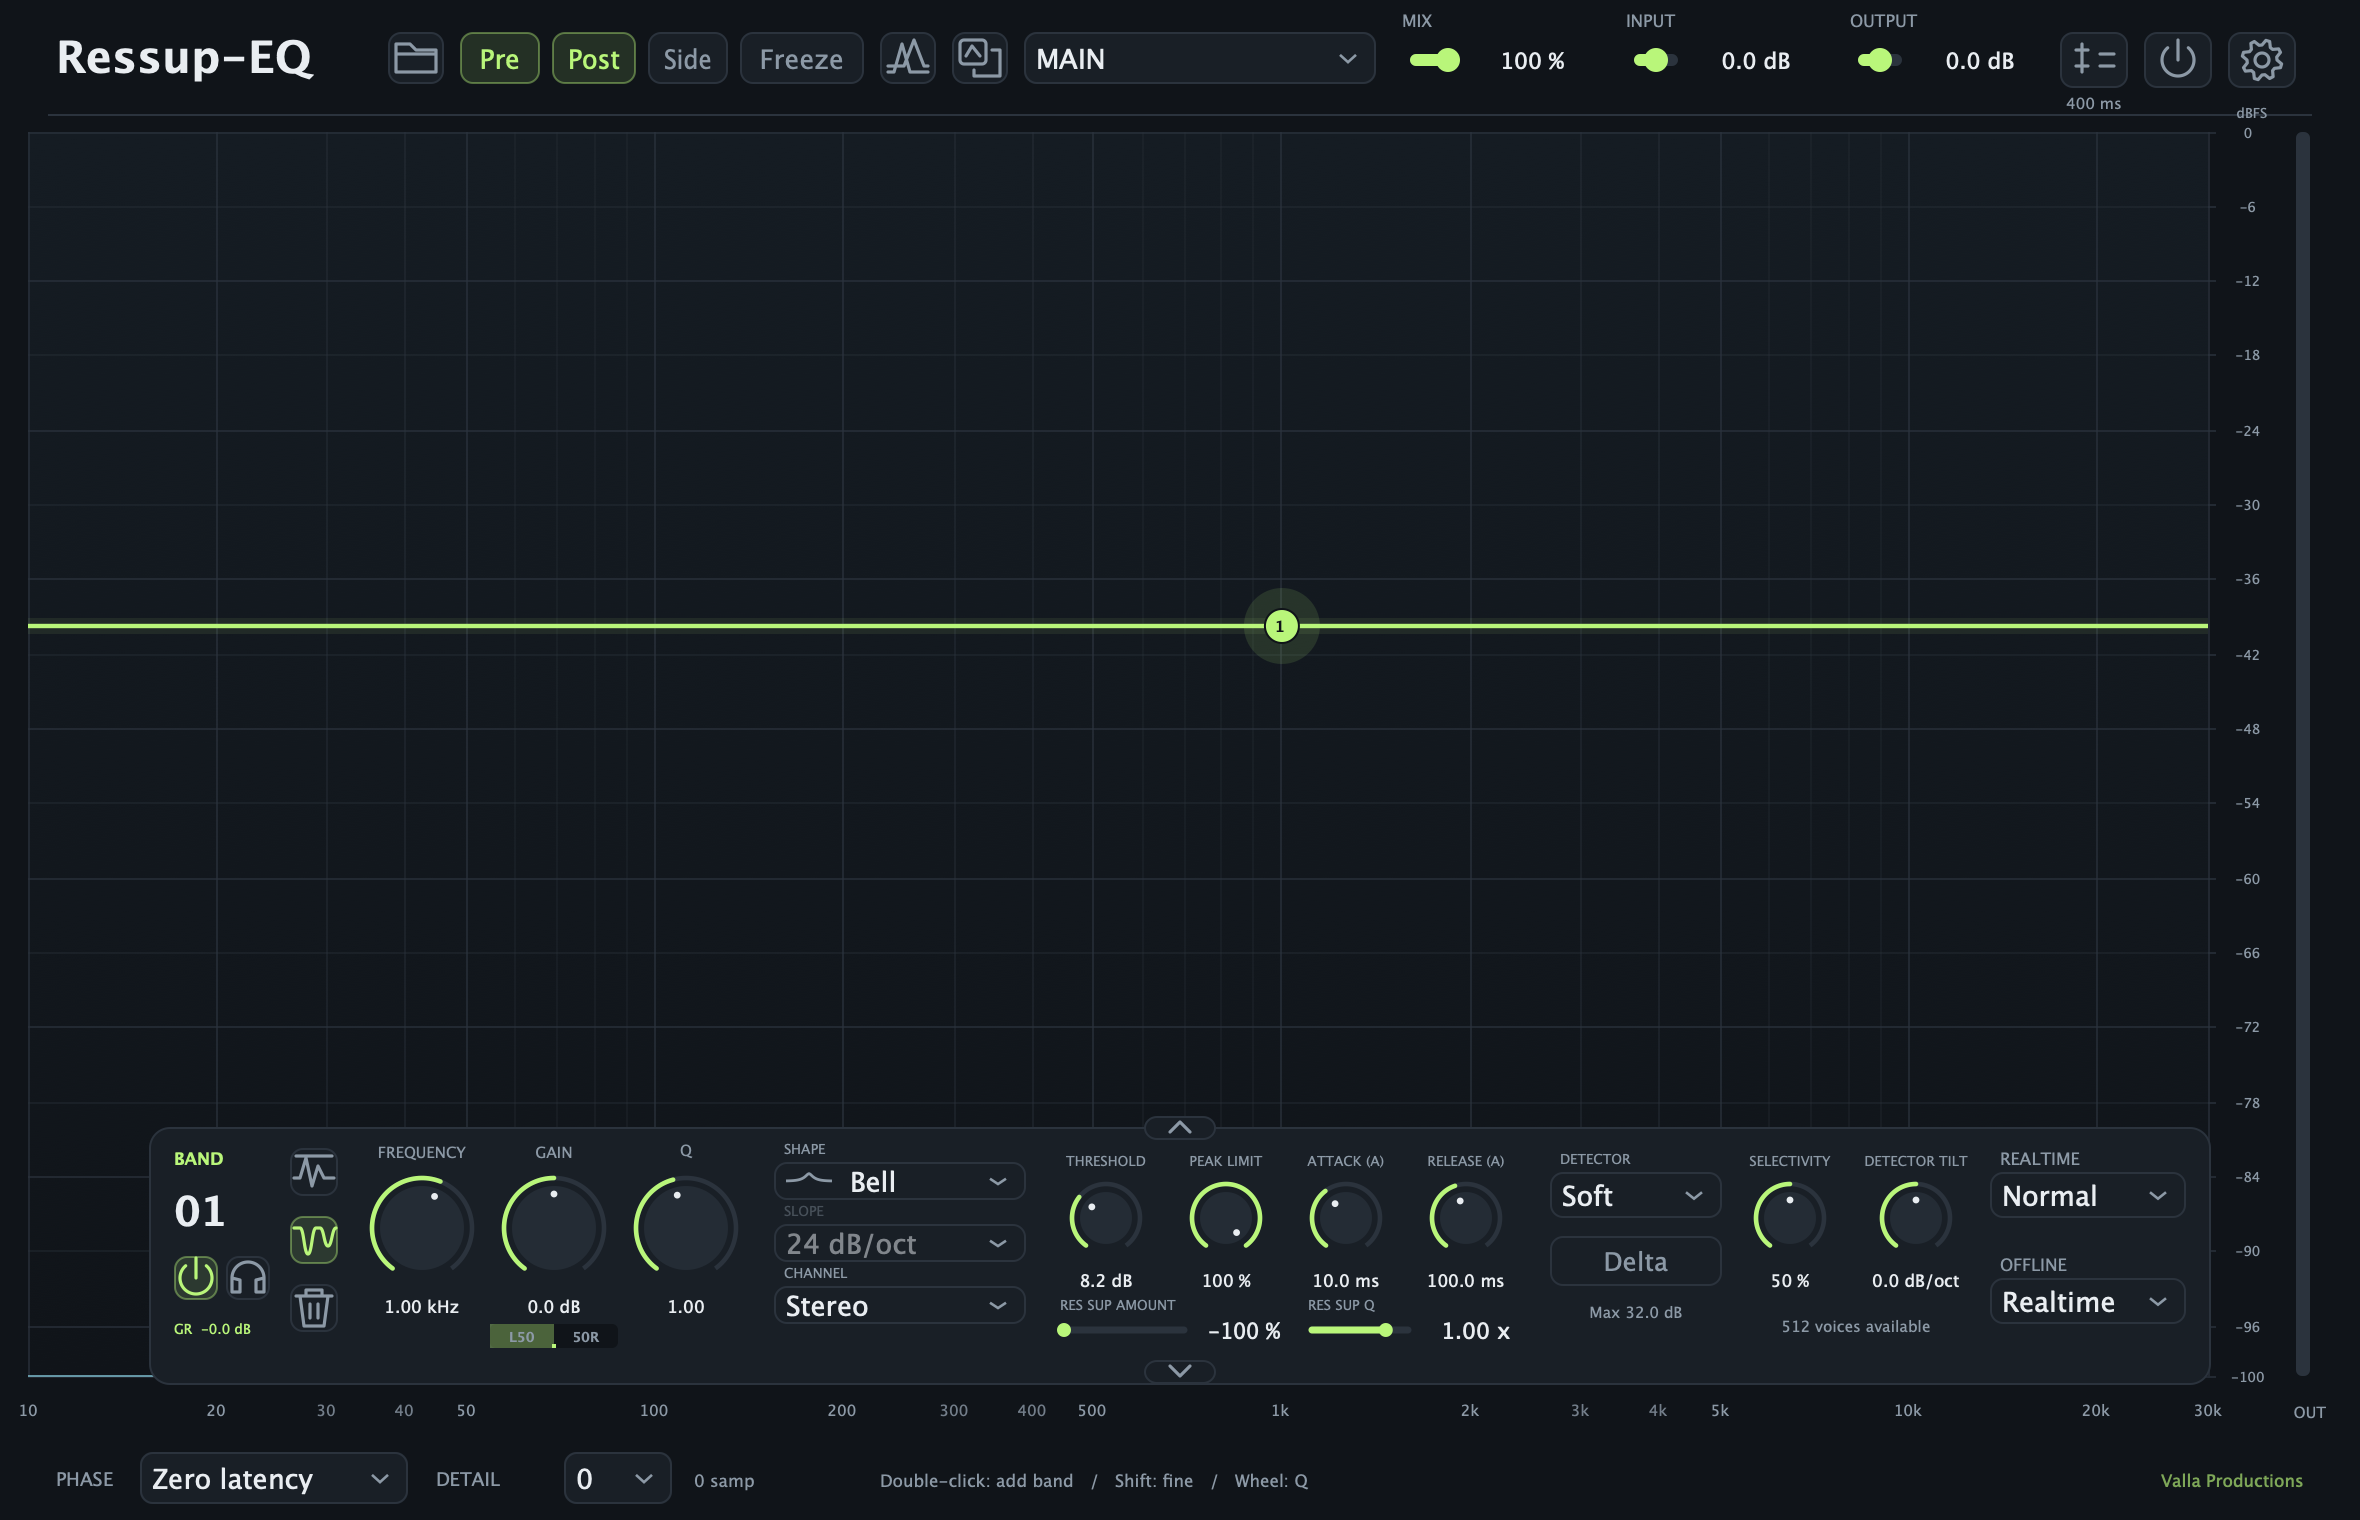
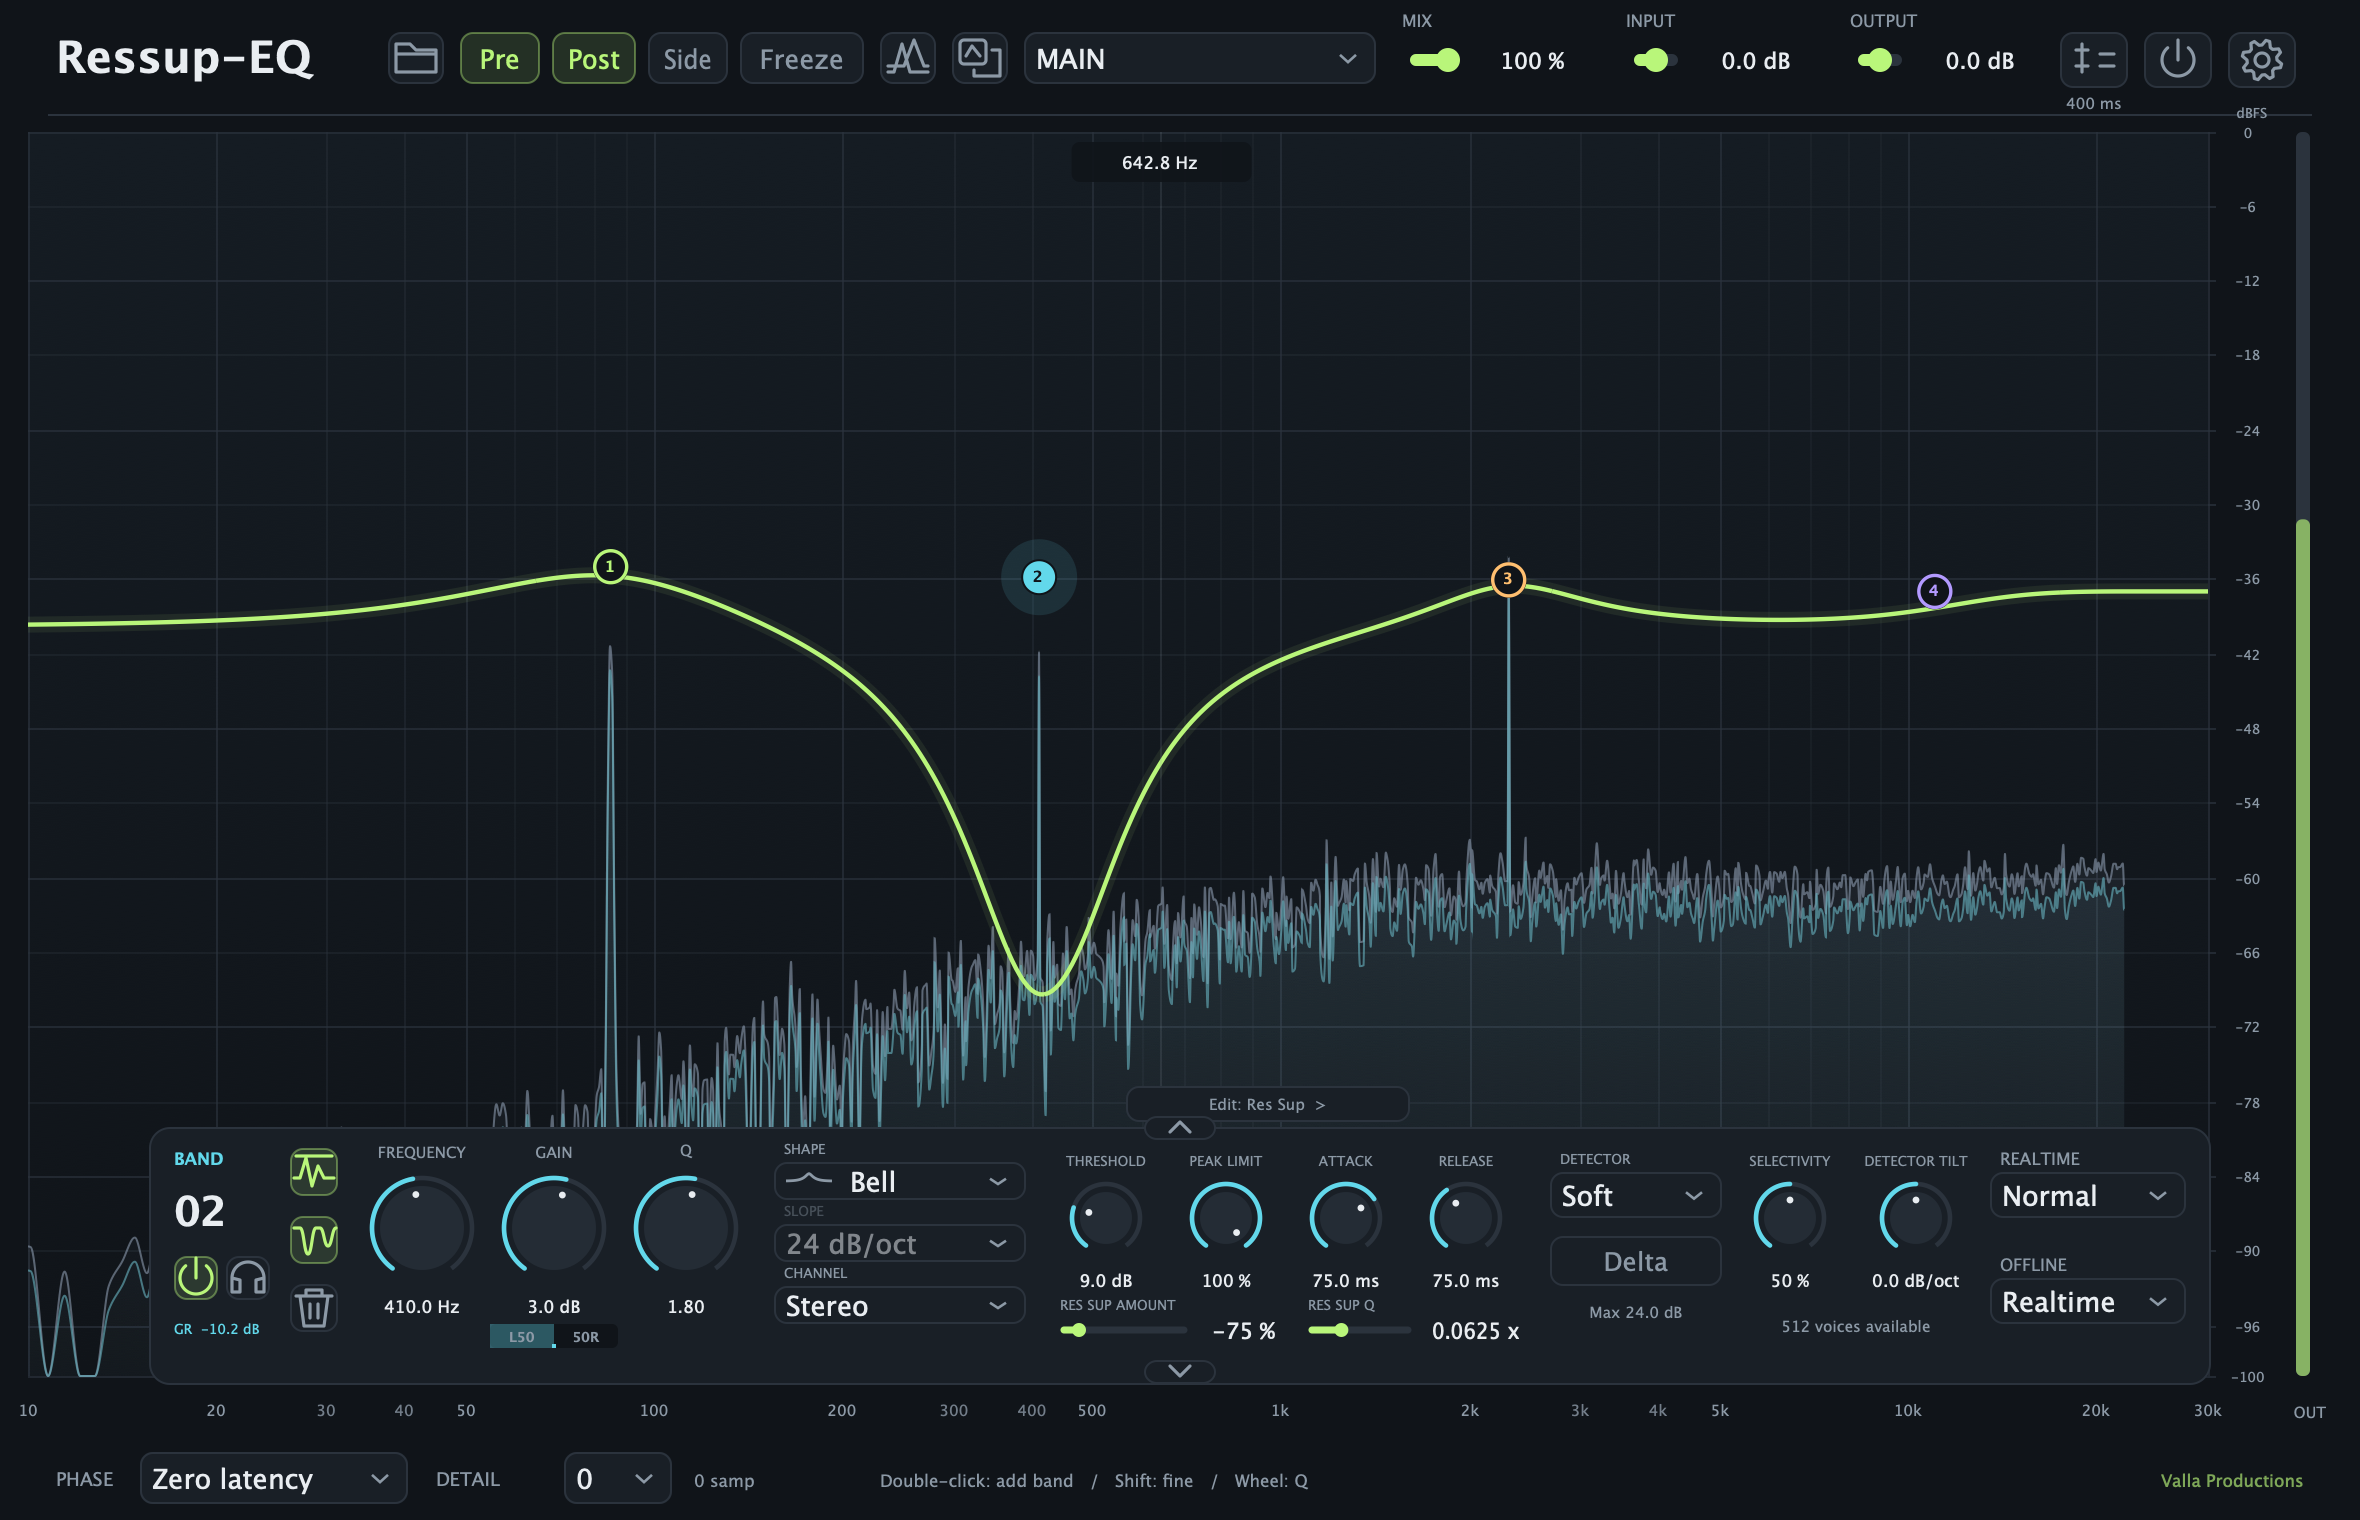
Show active audio spectra in README screenshot

diff --git a/README.md b/README.md
@@ -20,7 +20,9 @@ Legacy detector. Older settings, presets and automation may not recall the same
 result, and an existing mix may sound different after updating. Keep a backup of
 your sessions and the previous plug-in version before opening older projects.
 
-![Ressup-EQ with the Res Sup 2.0 controls, including Soft detection, Peak Limit, Selectivity, Delta and realtime/offline quality](images/ressup-eq.png)
+![Ressup-EQ processing an audio example, with Pre/Post spectra, active Res Sup controls and the output level meter](images/ressup-eq.png)
+
+*An audio example with Pre/Post spectra and Res Sup in action.*
 
 ## What's new: Res Sup 2.0
 
